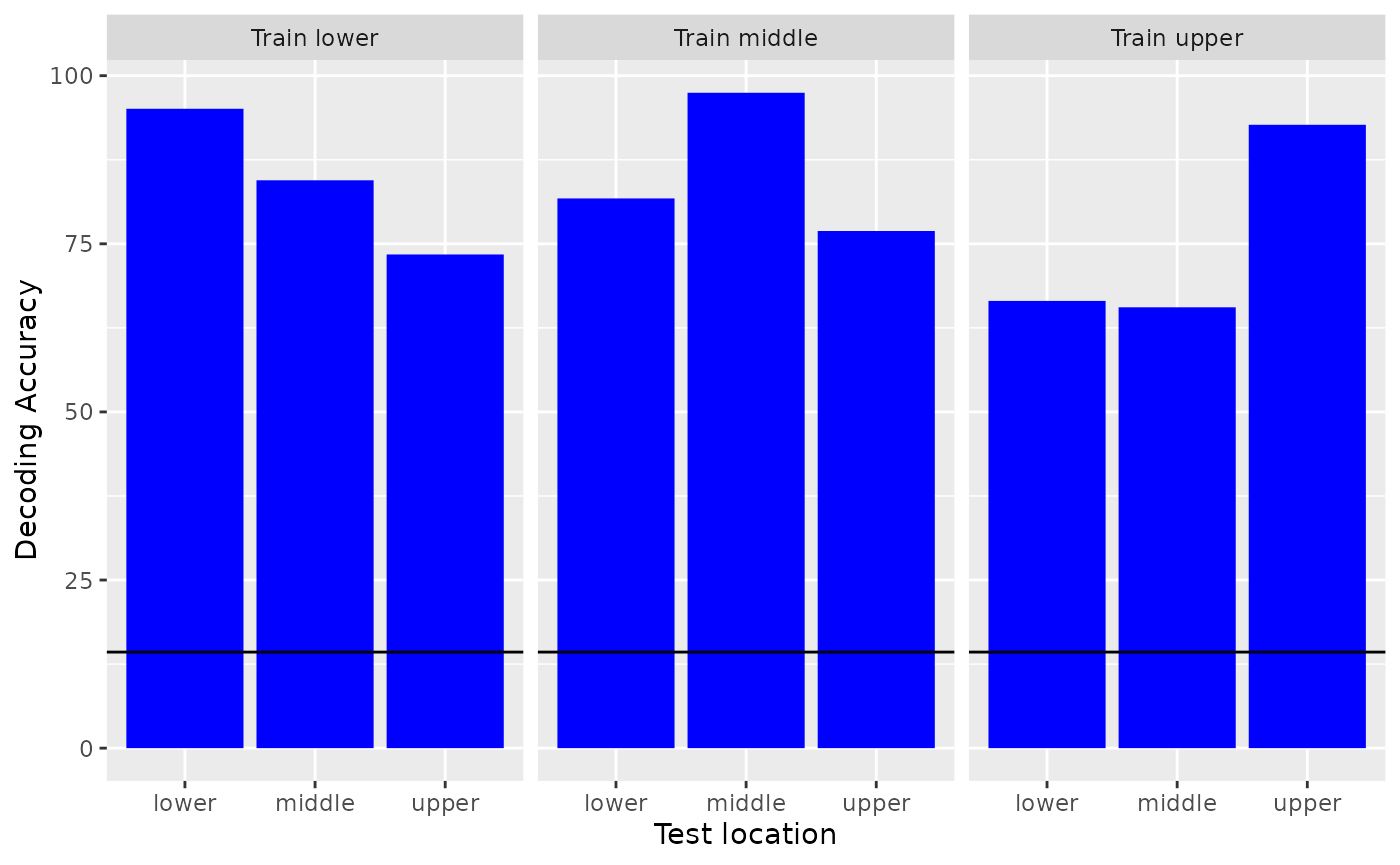
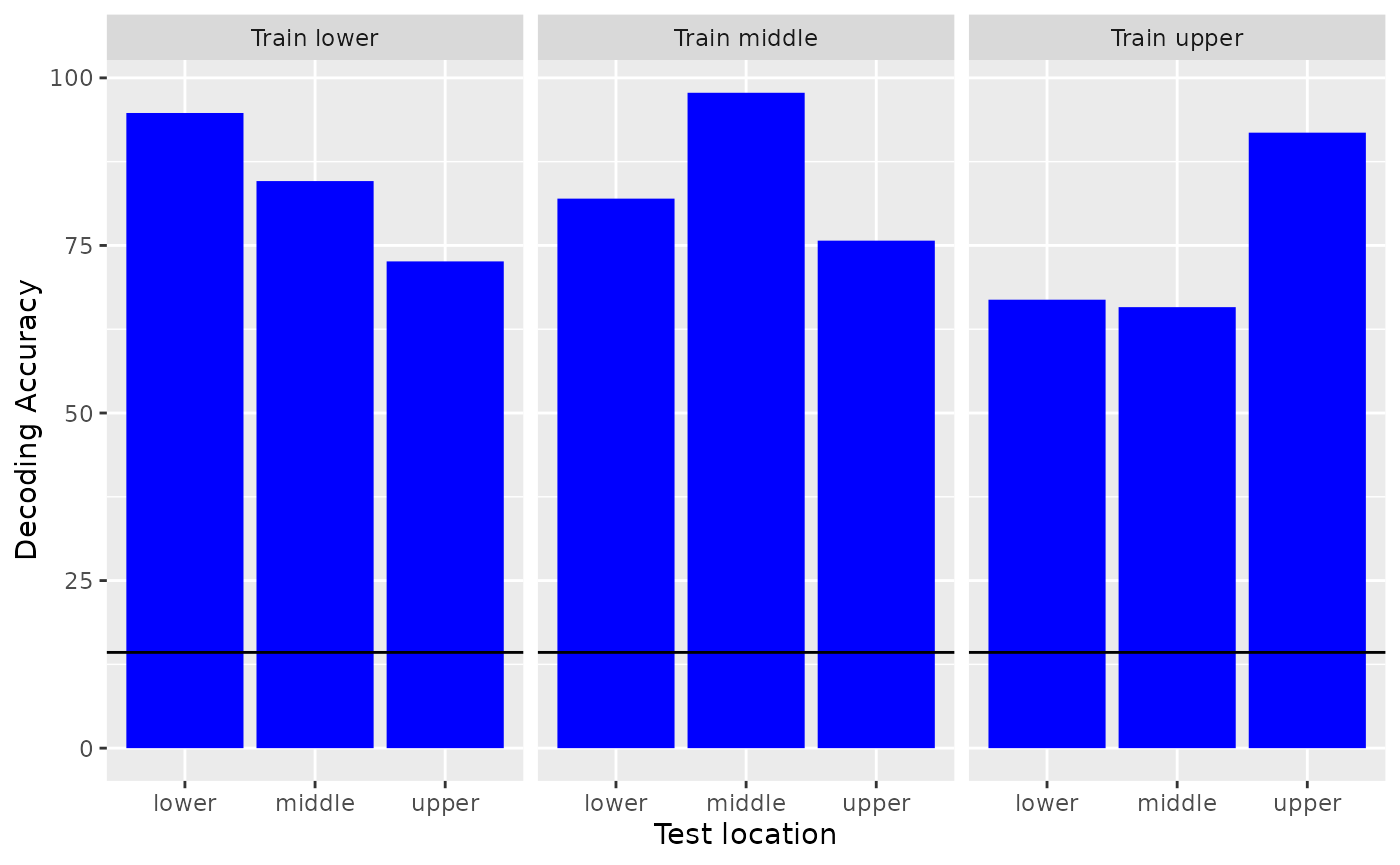
Rebuild the pkdown site with the updated README so that there are no forwarded web links.

diff --git a/docs/articles/generalization_tutorial.html b/docs/articles/generalization_tutorial.html
@@ -287,11 +287,11 @@ lower location.</p>
   |======================================================================| 100%</code></pre>
 <div class="sourceCode" id="cb8"><pre class="downlit sourceCode r">
 <code class="sourceCode R"><span><span class="fu">tictoc</span><span class="fu">::</span><span class="fu"><a href="https://rdrr.io/pkg/tictoc/man/tic.html" class="external-link">toc</a></span><span class="op">(</span><span class="op">)</span></span></code></pre></div>
-<pre><code><span><span class="co">## 11.109 sec elapsed</span></span></code></pre>
+<pre><code><span><span class="co">## 10.913 sec elapsed</span></span></code></pre>
 <div class="sourceCode" id="cb10"><pre class="downlit sourceCode r">
 <code class="sourceCode R"><span><span class="co"># show the zero-one loss decoding accuracy (chance is 1/7)</span></span>
 <span><span class="va">DECODING_RESULTS</span><span class="op">$</span><span class="va">rm_main_results</span><span class="op">$</span><span class="va">zero_one_loss</span></span></code></pre></div>
-<pre><code><span><span class="co">## [1] 0.8357143</span></span></code></pre>
+<pre><code><span><span class="co">## [1] 0.8404762</span></span></code></pre>
 </div>
 <div class="section level3">
 <h3 id="training-and-testing-at-all-locations">Training and testing at all locations<a class="anchor" aria-label="anchor" href="#training-and-testing-at-all-locations"></a>
@@ -396,7 +396,7 @@ from different locations.</p>
   |                                                                            
   |===============================================================       |  90%
   |                                                                            
-  |======================================================================| 100%10.451 sec elapsed</code></pre>
+  |======================================================================| 100%10.16 sec elapsed</code></pre>
 <pre><code><span><span class="co">## Warning in log_save_results(DECODING_RESULTS, results_dir_name, result_name): The manifest file does not exist.</span></span>
 <span><span class="co">##   Assuming this is the first result that is saved and creating manifest file</span></span></code></pre>
 <pre><code><span><span class="co">## Automatically selecting sites_IDs_to_use. Since num_cv_splits = 18 and num_label_repeats_per_cv_split = 1, all sites that have 18 repetitions have been selected. This yields 132 sites that will be used for decoding (out of 132 total).</span></span></code></pre>
@@ -422,7 +422,7 @@ from different locations.</p>
   |                                                                            
   |===============================================================       |  90%
   |                                                                            
-  |======================================================================| 100%10.578 sec elapsed</code></pre>
+  |======================================================================| 100%10.674 sec elapsed</code></pre>
 <pre><code><span><span class="co">## Automatically selecting sites_IDs_to_use. Since num_cv_splits = 18 and num_label_repeats_per_cv_split = 1, all sites that have 18 repetitions have been selected. This yields 132 sites that will be used for decoding (out of 132 total).</span></span></code></pre>
 <pre><code>## 
   |                                                                            
@@ -446,7 +446,7 @@ from different locations.</p>
   |                                                                            
   |===============================================================       |  90%
   |                                                                            
-  |======================================================================| 100%10.851 sec elapsed</code></pre>
+  |======================================================================| 100%10.407 sec elapsed</code></pre>
 <pre><code><span><span class="co">## Automatically selecting sites_IDs_to_use. Since num_cv_splits = 18 and num_label_repeats_per_cv_split = 1, all sites that have 18 repetitions have been selected. This yields 132 sites that will be used for decoding (out of 132 total).</span></span></code></pre>
 <pre><code>## 
   |                                                                            
@@ -470,7 +470,7 @@ from different locations.</p>
   |                                                                            
   |===============================================================       |  90%
   |                                                                            
-  |======================================================================| 100%10.495 sec elapsed</code></pre>
+  |======================================================================| 100%10.627 sec elapsed</code></pre>
 <pre><code><span><span class="co">## Automatically selecting sites_IDs_to_use. Since num_cv_splits = 18 and num_label_repeats_per_cv_split = 1, all sites that have 18 repetitions have been selected. This yields 132 sites that will be used for decoding (out of 132 total).</span></span></code></pre>
 <pre><code>## 
   |                                                                            
@@ -494,7 +494,7 @@ from different locations.</p>
   |                                                                            
   |===============================================================       |  90%
   |                                                                            
-  |======================================================================| 100%10.395 sec elapsed</code></pre>
+  |======================================================================| 100%10.49 sec elapsed</code></pre>
 <pre><code><span><span class="co">## Automatically selecting sites_IDs_to_use. Since num_cv_splits = 18 and num_label_repeats_per_cv_split = 1, all sites that have 18 repetitions have been selected. This yields 132 sites that will be used for decoding (out of 132 total).</span></span></code></pre>
 <pre><code>## 
   |                                                                            
@@ -518,7 +518,7 @@ from different locations.</p>
   |                                                                            
   |===============================================================       |  90%
   |                                                                            
-  |======================================================================| 100%11.024 sec elapsed</code></pre>
+  |======================================================================| 100%10.722 sec elapsed</code></pre>
 <pre><code><span><span class="co">## Automatically selecting sites_IDs_to_use. Since num_cv_splits = 18 and num_label_repeats_per_cv_split = 1, all sites that have 18 repetitions have been selected. This yields 132 sites that will be used for decoding (out of 132 total).</span></span></code></pre>
 <pre><code>## 
   |                                                                            
@@ -542,7 +542,7 @@ from different locations.</p>
   |                                                                            
   |===============================================================       |  90%
   |                                                                            
-  |======================================================================| 100%10.773 sec elapsed</code></pre>
+  |======================================================================| 100%10.807 sec elapsed</code></pre>
 <pre><code><span><span class="co">## Automatically selecting sites_IDs_to_use. Since num_cv_splits = 18 and num_label_repeats_per_cv_split = 1, all sites that have 18 repetitions have been selected. This yields 132 sites that will be used for decoding (out of 132 total).</span></span></code></pre>
 <pre><code>## 
   |                                                                            
@@ -566,7 +566,7 @@ from different locations.</p>
   |                                                                            
   |===============================================================       |  90%
   |                                                                            
-  |======================================================================| 100%10.912 sec elapsed</code></pre>
+  |======================================================================| 100%10.929 sec elapsed</code></pre>
 <pre><code><span><span class="co">## Automatically selecting sites_IDs_to_use. Since num_cv_splits = 18 and num_label_repeats_per_cv_split = 1, all sites that have 18 repetitions have been selected. This yields 132 sites that will be used for decoding (out of 132 total).</span></span></code></pre>
 <pre><code>## 
   |                                                                            
@@ -590,7 +590,7 @@ from different locations.</p>
   |                                                                            
   |===============================================================       |  90%
   |                                                                            
-  |======================================================================| 100%10.338 sec elapsed</code></pre>
+  |======================================================================| 100%10.484 sec elapsed</code></pre>
 </div>
 <div class="section level3">
 <h3 id="plotting-the-results">Plotting the results<a class="anchor" aria-label="anchor" href="#plotting-the-results"></a>

diff --git a/docs/articles/NDR_object_specification.html b/docs/articles/NDR_object_specification.html
@@ -286,10 +286,10 @@ example of how the FP object gets and returns data.</p>
 <span><span class="co"># this is done in the cross-validator</span></span>
 <span><span class="va">training_set</span> <span class="op">&lt;-</span> <span class="fu">dplyr</span><span class="fu">::</span><span class="fu"><a href="https://dplyr.tidyverse.org/reference/filter.html" class="external-link">filter</a></span><span class="op">(</span><span class="va">cv_data</span>, </span>
 <span>                              <span class="va">time_bin</span> <span class="op">==</span> <span class="st">"time.100_250"</span>, </span>
-<span>                              <span class="va">CV_1</span> <span class="op">==</span> <span class="st">"train"</span><span class="op">)</span> <span class="op"><a href="https://magrittr.tidyverse.org/reference/pipe.html" class="external-link">%&gt;%</a></span>       <span class="co"># get data from the first CV split</span></span>
+<span>                              <span class="va">CV_1</span> <span class="op">==</span> <span class="st">"train"</span><span class="op">)</span> <span class="op">%&gt;%</span>       <span class="co"># get data from the first CV split</span></span>
 <span>  <span class="fu">dplyr</span><span class="fu">::</span><span class="fu"><a href="https://dplyr.tidyverse.org/reference/select.html" class="external-link">select</a></span><span class="op">(</span><span class="fu">starts_with</span><span class="op">(</span><span class="st">"site"</span><span class="op">)</span>, <span class="va">train_labels</span><span class="op">)</span></span>
 <span>        </span>
-<span><span class="va">test_set</span> <span class="op">&lt;-</span> <span class="fu">dplyr</span><span class="fu">::</span><span class="fu"><a href="https://dplyr.tidyverse.org/reference/filter.html" class="external-link">filter</a></span><span class="op">(</span><span class="va">cv_data</span>, <span class="va">CV_1</span> <span class="op">==</span> <span class="st">"test"</span><span class="op">)</span> <span class="op"><a href="https://magrittr.tidyverse.org/reference/pipe.html" class="external-link">%&gt;%</a></span>   <span class="co"># get data from the first CV split</span></span>
+<span><span class="va">test_set</span> <span class="op">&lt;-</span> <span class="fu">dplyr</span><span class="fu">::</span><span class="fu"><a href="https://dplyr.tidyverse.org/reference/filter.html" class="external-link">filter</a></span><span class="op">(</span><span class="va">cv_data</span>, <span class="va">CV_1</span> <span class="op">==</span> <span class="st">"test"</span><span class="op">)</span> <span class="op">%&gt;%</span>   <span class="co"># get data from the first CV split</span></span>
 <span>  <span class="fu">dplyr</span><span class="fu">::</span><span class="fu"><a href="https://dplyr.tidyverse.org/reference/select.html" class="external-link">select</a></span><span class="op">(</span><span class="fu">starts_with</span><span class="op">(</span><span class="st">"site"</span><span class="op">)</span>, <span class="va">test_labels</span>, <span class="va">time_bin</span><span class="op">)</span> </span>
 <span></span>
 <span></span>
@@ -300,11 +300,11 @@ example of how the FP object gets and returns data.</p>
 <span></span>
 <span><span class="co"># prior to z-score normalizing the mean (e.g. for site 1) is not 0</span></span>
 <span><span class="fu"><a href="https://rdrr.io/r/base/mean.html" class="external-link">mean</a></span><span class="op">(</span><span class="va">training_set</span><span class="op">$</span><span class="va">site_0001</span><span class="op">)</span></span></code></pre></div>
-<pre><code><span><span class="co">## [1] 0.003137255</span></span></code></pre>
+<pre><code><span><span class="co">## [1] 0.003193277</span></span></code></pre>
 <div class="sourceCode" id="cb9"><pre class="downlit sourceCode r">
 <code class="sourceCode R"><span><span class="co"># after normalizing the data the mean is pretty much 0</span></span>
 <span><span class="fu"><a href="https://rdrr.io/r/base/mean.html" class="external-link">mean</a></span><span class="op">(</span><span class="va">processed_data</span><span class="op">$</span><span class="va">training_set</span><span class="op">$</span><span class="va">site_0001</span><span class="op">)</span></span></code></pre></div>
-<pre><code><span><span class="co">## [1] -5.784264e-17</span></span></code></pre>
+<pre><code><span><span class="co">## [1] -1.500846e-17</span></span></code></pre>
 <p><br></p>
 <p><br></p>
 </div>
@@ -388,10 +388,10 @@ example of how the CL object gets and returns data.</p>
 <span><span class="co"># this is done in the cross-validator</span></span>
 <span><span class="va">training_set</span> <span class="op">&lt;-</span> <span class="fu">dplyr</span><span class="fu">::</span><span class="fu"><a href="https://dplyr.tidyverse.org/reference/filter.html" class="external-link">filter</a></span><span class="op">(</span><span class="va">cv_data</span>, </span>
 <span>                              <span class="va">time_bin</span> <span class="op">==</span> <span class="st">"time.100_250"</span>, </span>
-<span>                              <span class="va">CV_1</span> <span class="op">==</span> <span class="st">"train"</span><span class="op">)</span> <span class="op"><a href="https://magrittr.tidyverse.org/reference/pipe.html" class="external-link">%&gt;%</a></span>       <span class="co"># get data from the first CV split</span></span>
+<span>                              <span class="va">CV_1</span> <span class="op">==</span> <span class="st">"train"</span><span class="op">)</span> <span class="op">%&gt;%</span>       <span class="co"># get data from the first CV split</span></span>
 <span>  <span class="fu">dplyr</span><span class="fu">::</span><span class="fu"><a href="https://dplyr.tidyverse.org/reference/select.html" class="external-link">select</a></span><span class="op">(</span><span class="fu">starts_with</span><span class="op">(</span><span class="st">"site"</span><span class="op">)</span>, <span class="va">train_labels</span><span class="op">)</span></span>
 <span>        </span>
-<span><span class="va">test_set</span> <span class="op">&lt;-</span> <span class="fu">dplyr</span><span class="fu">::</span><span class="fu"><a href="https://dplyr.tidyverse.org/reference/filter.html" class="external-link">filter</a></span><span class="op">(</span><span class="va">cv_data</span>, <span class="va">CV_1</span> <span class="op">==</span> <span class="st">"test"</span><span class="op">)</span> <span class="op"><a href="https://magrittr.tidyverse.org/reference/pipe.html" class="external-link">%&gt;%</a></span>   <span class="co"># get data from the first CV split</span></span>
+<span><span class="va">test_set</span> <span class="op">&lt;-</span> <span class="fu">dplyr</span><span class="fu">::</span><span class="fu"><a href="https://dplyr.tidyverse.org/reference/filter.html" class="external-link">filter</a></span><span class="op">(</span><span class="va">cv_data</span>, <span class="va">CV_1</span> <span class="op">==</span> <span class="st">"test"</span><span class="op">)</span> <span class="op">%&gt;%</span>   <span class="co"># get data from the first CV split</span></span>
 <span>  <span class="fu">dplyr</span><span class="fu">::</span><span class="fu"><a href="https://dplyr.tidyverse.org/reference/select.html" class="external-link">select</a></span><span class="op">(</span><span class="fu">starts_with</span><span class="op">(</span><span class="st">"site"</span><span class="op">)</span>, <span class="va">test_labels</span>, <span class="va">time_bin</span><span class="op">)</span> </span>
 <span></span>
 <span></span>
@@ -409,7 +409,7 @@ example of how the CL object gets and returns data.</p>
 <code class="sourceCode R"><span><span class="co"># see how accurate the predictions are (chance is 1/7)</span></span>
 <span><span class="va">predictions_at_100ms</span> <span class="op">&lt;-</span> <span class="fu">dplyr</span><span class="fu">::</span><span class="fu"><a href="https://dplyr.tidyverse.org/reference/filter.html" class="external-link">filter</a></span><span class="op">(</span><span class="va">predictions</span>, <span class="va">test_time</span> <span class="op">==</span> <span class="st">"time.100_250"</span><span class="op">)</span></span>
 <span><span class="fu"><a href="https://rdrr.io/r/base/mean.html" class="external-link">mean</a></span><span class="op">(</span><span class="va">predictions_at_100ms</span><span class="op">$</span><span class="va">actual_labels</span> <span class="op">==</span> <span class="va">predictions_at_100ms</span><span class="op">$</span><span class="va">predicted_labels</span><span class="op">)</span></span></code></pre></div>
-<pre><code><span><span class="co">## [1] 0.8571429</span></span></code></pre>
+<pre><code><span><span class="co">## [1] 1</span></span></code></pre>
 <p><br></p>
 <p><br></p>
 </div>

diff --git a/docs/index.html b/docs/index.html
@@ -183,8 +183,7 @@
 </h2>
 <p>One can also run a decoding analysis using the pipe (|&gt;) operator to string together the different NDR objects as shown below.</p>
 <div class="sourceCode" id="cb5"><pre class="downlit sourceCode r">
-<code class="sourceCode R"><span><span class="kw"><a href="https://rdrr.io/r/base/library.html" class="external-link">library</a></span><span class="op">(</span><span class="va"><a href="https://magrittr.tidyverse.org" class="external-link">magrittr</a></span><span class="op">)</span></span>
-<span></span>
+<code class="sourceCode R"><span></span>
 <span><span class="va">basedir_file_name</span> <span class="op">&lt;-</span> <span class="fu"><a href="https://rdrr.io/r/base/system.file.html" class="external-link">system.file</a></span><span class="op">(</span><span class="fu"><a href="https://rdrr.io/r/base/file.path.html" class="external-link">file.path</a></span><span class="op">(</span><span class="st">"extdata"</span>, <span class="st">"ZD_500bins_500sampled.Rda"</span><span class="op">)</span>, package<span class="op">=</span><span class="st">"NeuroDecodeR"</span><span class="op">)</span></span>
 <span>  </span>
 <span>  <span class="va">DECODING_RESULTS</span> <span class="op">&lt;-</span> <span class="va">basedir_file_name</span> <span class="op">|&gt;</span></span>
@@ -238,9 +237,9 @@
 <div class="dev-status">
 <h2 data-toc-skip>Dev status</h2>
 <ul class="list-unstyled">
-<li><a href="https://travis-ci.com/emeyers/NeuroDecodeR" class="external-link"><img src="https://travis-ci.com/emeyers/NeuroDecodeR.svg?branch=master" alt="Travis build status"></a></li>
+<li><a href="https://www.travis-ci.com/emeyers/NeuroDecodeR" class="external-link"><img src="https://api.travis-ci.com/emeyers/NeuroDecodeR.svg?branch=master" alt="Travis build status"></a></li>
 <li><a href="https://ci.appveyor.com/project/emeyers/NeuroDecodeR" class="external-link"><img src="https://ci.appveyor.com/api/projects/status/github/emeyers/NeuroDecodeR?branch=master&amp;svg=true" alt="AppVeyor build status"></a></li>
-<li><a href="https://coveralls.io/r/emeyers/NeuroDecodeR?branch=master" class="external-link"><img src="https://coveralls.io/repos/github/emeyers/NeuroDecodeR/badge.svg" alt="Coveralls test coverage"></a></li>
+<li><a href="https://coveralls.io/github/emeyers/NeuroDecodeR" class="external-link"><img src="https://coveralls.io/repos/github/emeyers/NeuroDecodeR/badge.svg" alt="Coveralls test coverage"></a></li>
 </ul>
 </div>
 
